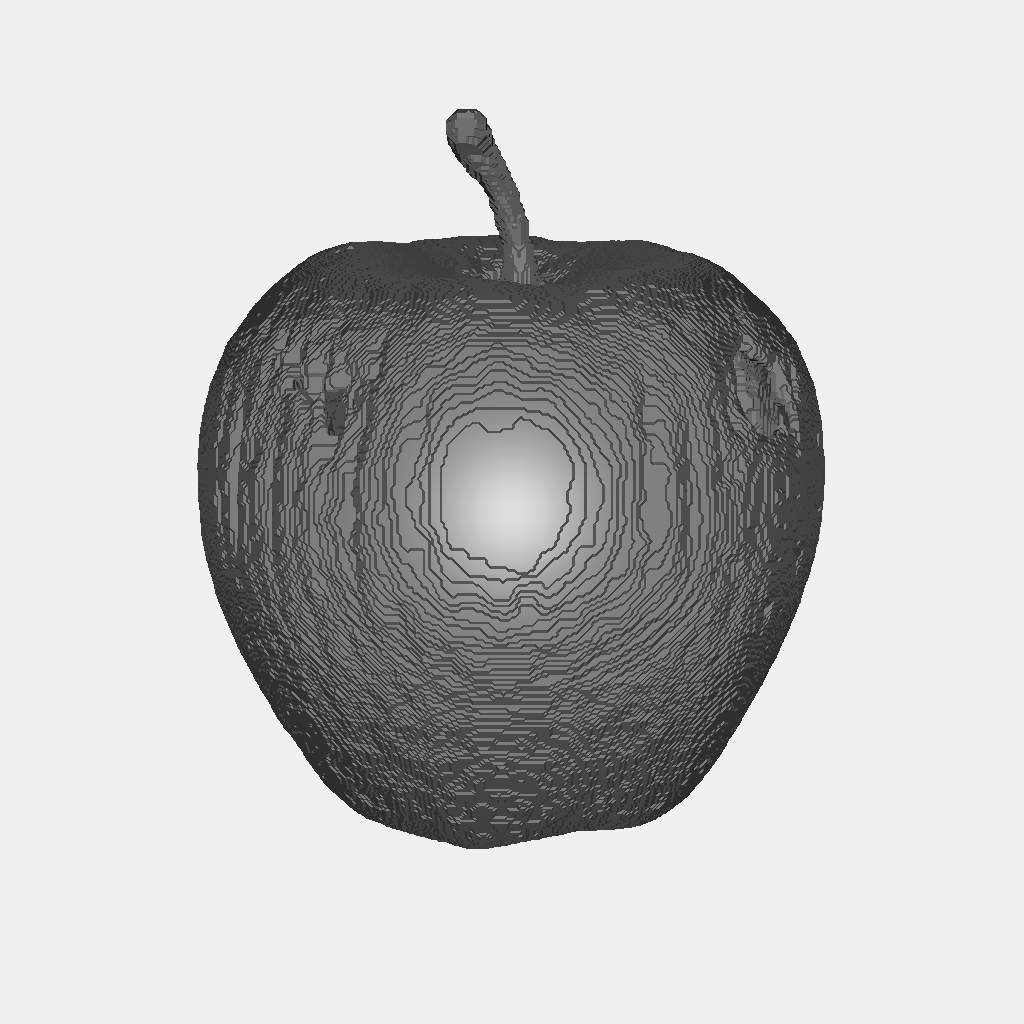
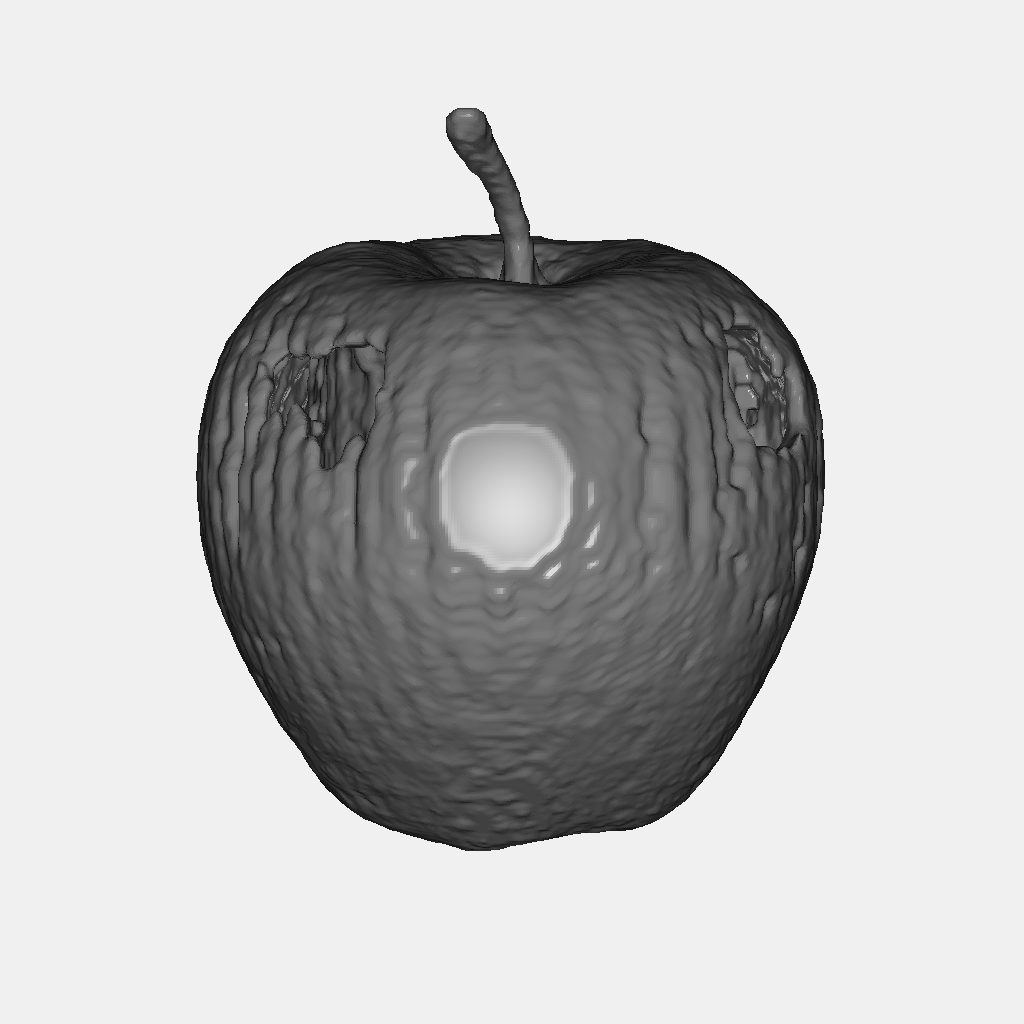
Upgraded pipeline: added smoothing to 3D models and improved background remover

Changed region(s): [[0.1875, 0.0938, 0.8125, 0.8438], [0.4062, 0.8125, 0.4375, 0.8438]]

diff --git a/TripoSR/run.py b/TripoSR/run.py
@@ -10,9 +10,13 @@ import rembg
 import torch
 import trimesh
 from PIL import Image
+from trimesh.visual import TextureVisuals
+from trimesh.visual.material import PBRMaterial
+from trimesh.smoothing import filter_taubin
 
 warnings.filterwarnings("ignore", category=RuntimeWarning, message="invalid value encountered in divide")
 
+from tsr.bake_texture import bake_texture
 from tsr.system import TSR
 from tsr.utils import remove_background, repair_mesh, resize_foreground, to_gradio_3d_orientation
 
@@ -73,7 +77,7 @@ def build_parser() -> argparse.ArgumentParser:
     parser.add_argument(
         "--threshold",
         type=float,
-        default=5.0,
+        default=7.0,
         help="Mesh extraction threshold.",
     )
     return parser
@@ -118,7 +122,7 @@ def collect_input_images(input_args: list, project_root: Path) -> list[Path]:
             raise FileNotFoundError(f"Input path not found: {input_path}")
 
     unique_paths = list(dict.fromkeys(p for p in collected if p.suffix.lower() == ".png"))
-    
+
     if not unique_paths:
         raise FileNotFoundError("No PNG images were found in the provided input paths.")
     return unique_paths
@@ -126,7 +130,12 @@ def collect_input_images(input_args: list, project_root: Path) -> list[Path]:
 
 def prepare_model_input(input_path: Path, foreground_ratio: float, rembg_session) -> Image.Image:
     with Image.open(input_path) as raw_image:
-        processed_image = remove_background(raw_image, rembg_session=rembg_session)
+        processed_image = remove_background(
+            raw_image,
+            rembg_session=rembg_session,
+            post_process_mask=True,
+            alpha_matting=False
+        )
 
     if processed_image.mode != "RGBA":
         processed_image = processed_image.convert("RGBA")
@@ -165,8 +174,8 @@ def resolve_output_path(
     subfolder = output_dir / input_path.stem
     subfolder.mkdir(parents=True, exist_ok=True)
 
-    # Save the obj inside that subfolder
-    return subfolder / f"{input_path.stem}.obj"
+    # Save the glb inside that subfolder
+    return subfolder / "3d Object.glb"
 
 
 def load_model(args: argparse.Namespace) -> TSR:
@@ -249,22 +258,56 @@ def generate_mesh_for_image(
     mesh = trimesh.Trimesh(
         vertices=meshes[0].vertices,
         faces=meshes[0].faces,
-        vertex_colors=meshes[0].visual.vertex_colors,
         process=False,
     )
+
     mesh = repair_mesh(mesh, voxel_resolution=resolve_repair_resolution(args.mc_resolution))
+
+    # Crank this up to 100 to completely melt away the voxel staircase effect
+    filter_taubin(mesh, iterations=100)
+    # ------------------------------------------------
+
     print(f"        ✓ Completed in {time.time() - t_start:.2f}s")
+
+    # print("  [4.5/5] Applying texture...")
+    # t_start = time.time()
+    # texture_res = 100
+    # bake_data = bake_texture(mesh, model, scene_codes[0], texture_res)
+    # texture_img = Image.fromarray((bake_data["colors"] * 255).astype(np.uint8)).convert("RGB")
+    #
+    # # Use the cleaner imports we set up at the top
+    # material = PBRMaterial(
+    #     roughnessFactor=1.0,
+    #     metallicFactor=0.0,
+    #     baseColorTexture=texture_img
+    # )
+    #
+    # visual = TextureVisuals(
+    #     uv=bake_data["uvs"],
+    #     image=texture_img,
+    #     material=material
+    # )
+    #
+    # mesh = trimesh.Trimesh(
+    #     vertices=mesh.vertices[bake_data["vmapping"]],
+    #     faces=bake_data["indices"],
+    #     visual=visual,
+    #     process=False
+    # )
+    # print(f"        ✓ Completed in {time.time() - t_start:.2f}s")
 
     print("  [5/5] Applying rotation and exporting...")
     t_start = time.time()
     mesh = to_gradio_3d_orientation(mesh)
 
     output_path.parent.mkdir(parents=True, exist_ok=True)
-    mesh.export(output_path, include_normals=True, include_color=True)
+
+    # Export as GLB so it keeps the texture and material settings packed in one file!
+    glb_output_path = output_path.with_suffix('.glb')
+    mesh.export(glb_output_path)
     final_input.save(output_path.parent / input_path.name)
 
     print(f"        ✓ Completed in {time.time() - t_start:.2f}s")
-    print(f"  ✓ Saved to {output_path.parent}")
 
 
 def main() -> None:
@@ -287,7 +330,7 @@ def main() -> None:
 
         print(f"Processing {len(input_paths)} image(s)")
         print("Initializing background removal...\n")
-        rembg_session = rembg.new_session()
+        rembg_session = rembg.new_session("isnet-general-use")
 
         total_start_time = time.time()
         for input_path in input_paths:

diff --git a/take_pictures.py b/take_pictures.py
@@ -10,26 +10,31 @@ RENDER_WIDTH = 1024
 RENDER_HEIGHT = 1024
 RENDER_ITERATIONS = 30
 RENDER_SLEEP_MS = 0.01
-DEFAULT_COLOR = 128
+DEFAULT_COLOR = [128, 128, 128, 255]
 
 
 def load_mesh_with_colors(file_path: Path) -> o3d.geometry.TriangleMesh:
-    """Load mesh from file and convert to Open3D with proper vertex colors."""
+    """Load mesh from file (supporting GLB Scenes) and convert to Open3D with proper vertex colors."""
     t_mesh = trimesh.load(str(file_path), process=False)
-    
+
+    # If the loaded object is a Scene (common for GLB), combine it into one geometry
+    if isinstance(t_mesh, trimesh.Scene):
+        # Updated to comply with the new trimesh API (fixes the DeprecationWarning)
+        t_mesh = t_mesh.to_geometry()
+
     if not hasattr(t_mesh.visual, 'vertex_colors') or len(t_mesh.visual.vertex_colors) == 0:
         t_mesh.visual.vertex_colors = np.full((len(t_mesh.vertices), 4), DEFAULT_COLOR)
-    
+
     vertices = np.array(t_mesh.vertices)
     faces = np.array(t_mesh.faces)
     colors = np.array(t_mesh.visual.vertex_colors)[:, :3] / 255.0
-    
+
     mesh = o3d.geometry.TriangleMesh()
     mesh.vertices = o3d.utility.Vector3dVector(vertices)
     mesh.triangles = o3d.utility.Vector3iVector(faces)
     mesh.vertex_colors = o3d.utility.Vector3dVector(colors)
     mesh.compute_vertex_normals()
-    
+
     return mesh
 
 
@@ -49,7 +54,6 @@ def position_camera(vis: o3d.visualization.Visualizer, mesh: o3d.geometry.Triang
     mesh_center = bbox.get_center()
 
     ctr = vis.get_view_control()
-    # Change [0, 0, -1] to [0, 0, 1] to look from the opposite side
     ctr.set_front([0, 0, 1])
     ctr.set_up([0, 1, 0])
     ctr.set_lookat(mesh_center)
@@ -61,15 +65,15 @@ def render_mesh_to_image(mesh: o3d.geometry.TriangleMesh, output_path: Path) -> 
     vis = o3d.visualization.Visualizer()
     vis.create_window(window_name="Render", width=RENDER_WIDTH, height=RENDER_HEIGHT, visible=False)
     vis.add_geometry(mesh)
-    
+
     configure_renderer(vis)
     position_camera(vis, mesh)
-    
+
     for _ in range(RENDER_ITERATIONS):
         vis.poll_events()
         vis.update_renderer()
         time.sleep(RENDER_SLEEP_MS)
-    
+
     buffer = vis.capture_screen_float_buffer(do_render=True)
     image_np = (np.asarray(buffer) * 240).astype(np.uint8)
     Image.fromarray(image_np).save(str(output_path))
@@ -77,7 +81,7 @@ def render_mesh_to_image(mesh: o3d.geometry.TriangleMesh, output_path: Path) -> 
 
 
 def take_pictures() -> None:
-    """Generate 3D preview images for all models."""
+    """Generate 3D preview images for all .glb models in the outputs folder."""
     script_dir = Path(__file__).resolve().parent
     output_dir = script_dir / "TripoSR" / "outputs"
 
@@ -86,9 +90,9 @@ def take_pictures() -> None:
         print("  Run 'python TripoSR/run.py' first")
         return
 
-    model_files = sorted(output_dir.glob("**/*.obj"))
+    model_files = sorted(output_dir.glob("**/*.glb"))
     if not model_files:
-        print(f"✗ No .obj models found in {output_dir}")
+        print(f"✗ No .glb models found in {output_dir}")
         return
 
     print(f"Found {len(model_files)} models. Generating previews...\n")
@@ -97,7 +101,7 @@ def take_pictures() -> None:
     for file_path in model_files:
         image_path = file_path.parent / "3d_preview.png"
         model_name = file_path.parent.name
-        
+
         try:
             print(f"  {model_name}...", end=" ", flush=True)
             mesh = load_mesh_with_colors(file_path)

diff --git a/TripoSR/tsr/bake_texture.py b/TripoSR/tsr/bake_texture.py
@@ -4,6 +4,7 @@ import xatlas
 import trimesh
 import moderngl
 from PIL import Image
+from scipy import ndimage # Used for smearing the edge colors
 
 
 def make_atlas(mesh, texture_resolution, texture_padding):
@@ -135,18 +136,44 @@ def rasterize_position_atlas(
 
 
 def positions_to_colors(model, scene_code, positions_texture, texture_resolution):
-    positions = torch.tensor(positions_texture.reshape(-1, 4)[:, :-1])
+    flat_positions = positions_texture.reshape(-1, 4)
+
+    # 1. Find valid pixels
+    valid_mask = flat_positions[:, 3] > 0.0
+    valid_positions = torch.tensor(
+        flat_positions[valid_mask, :3],
+        device=scene_code.device
+    )
+
+    # 2. Query NeRF model
     with torch.no_grad():
         queried_grid = model.renderer.query_triplane(
             model.decoder,
-            positions,
+            valid_positions,
             scene_code,
         )
-    rgb_f = queried_grid["color"].numpy().reshape(-1, 3)
-    rgba_f = np.insert(rgb_f, 3, positions_texture.reshape(-1, 4)[:, -1], axis=1)
-    rgba_f[rgba_f[:, -1] == 0.0] = [0, 0, 0, 0]
-    return rgba_f.reshape(texture_resolution, texture_resolution, 4)
+    valid_colors = queried_grid["color"].cpu().numpy()
 
+    # 3. Paint valid colors onto a 2D RGB array
+    color_map = np.zeros((flat_positions.shape[0], 3), dtype=np.float32)
+    color_map[valid_mask] = valid_colors
+    color_map_2d = color_map.reshape(texture_resolution, texture_resolution, 3)
+
+    # 4. EDGE PADDING (The Magic Fix for the holes)
+    mask_2d = valid_mask.reshape(texture_resolution, texture_resolution)
+    empty_space = ~mask_2d
+
+    # Get the coordinates of the nearest valid pixel for every empty pixel
+    indices = ndimage.distance_transform_edt(empty_space, return_distances=False, return_indices=True)
+
+    # Smear the colors outward to fill the entire image, destroying any transparent gaps
+    padded_color_map = color_map_2d[tuple(indices)]
+
+    # 5. Return as RGBA (Alpha fully opaque to prevent viewer transparency bugs)
+    final_rgba = np.ones((texture_resolution, texture_resolution, 4), dtype=np.float32)
+    final_rgba[..., :3] = padded_color_map
+
+    return final_rgba
 
 def bake_texture(mesh, model, scene_code, texture_resolution):
     texture_padding = round(max(2, texture_resolution / 256))
